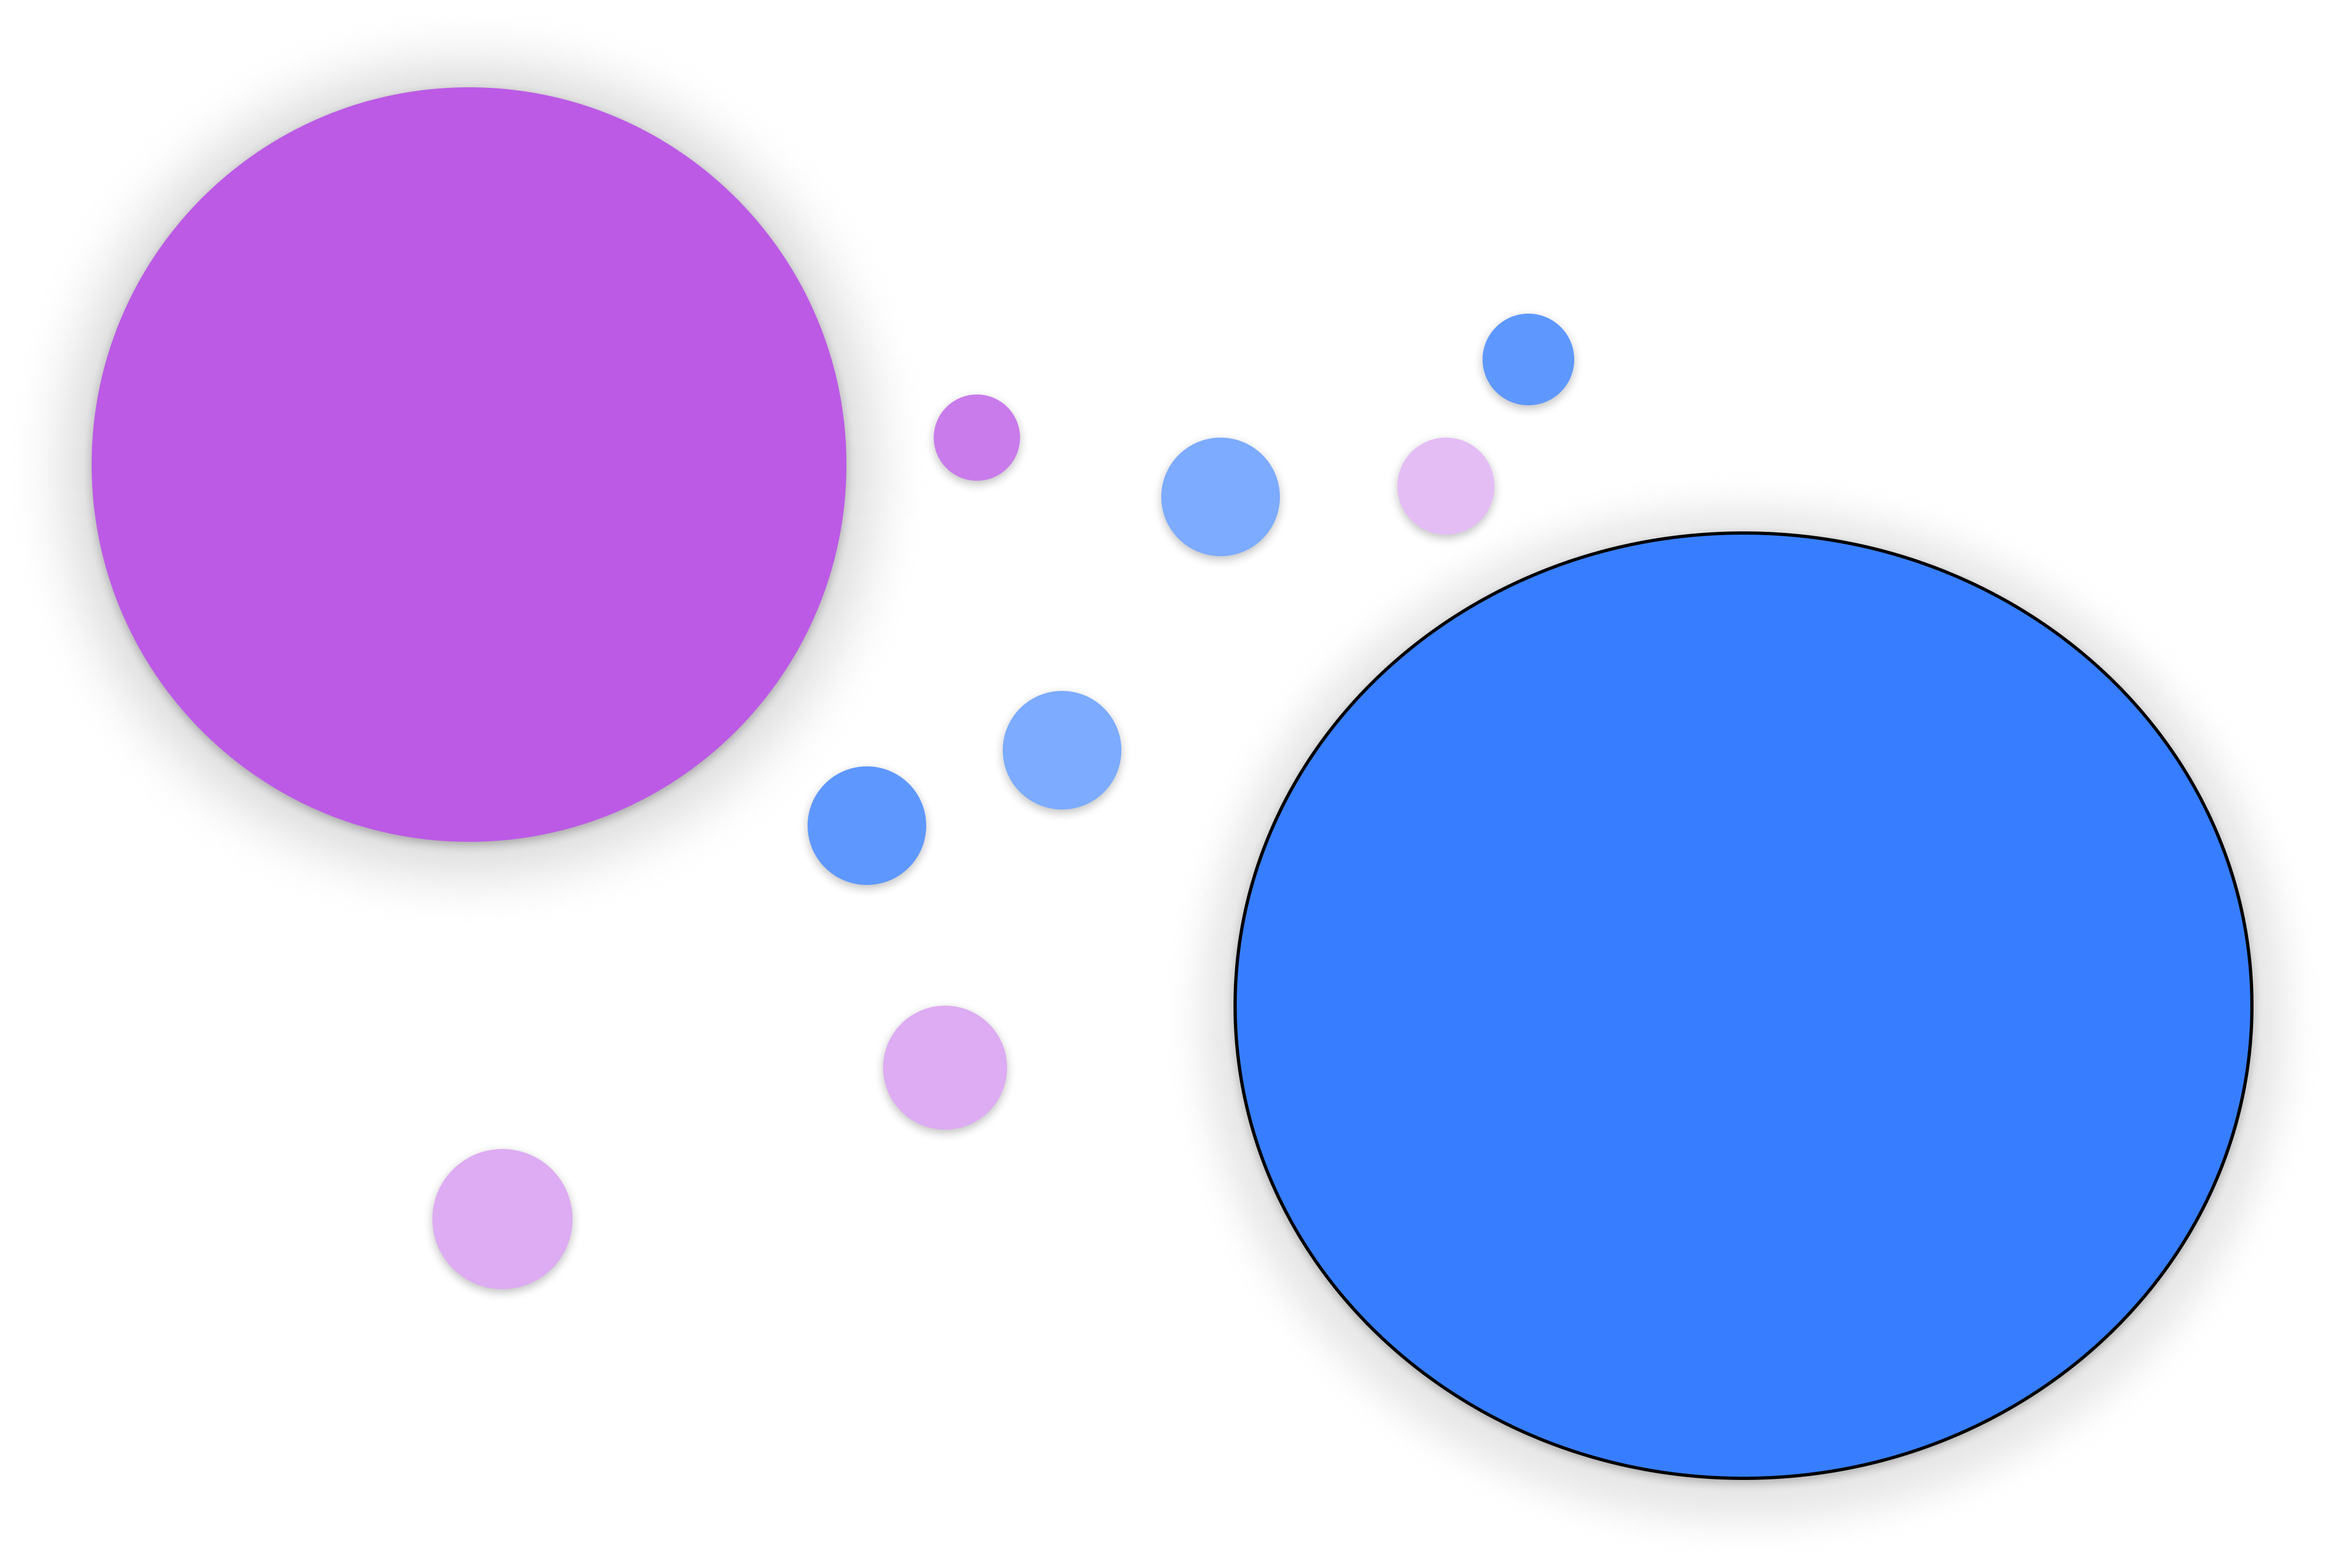
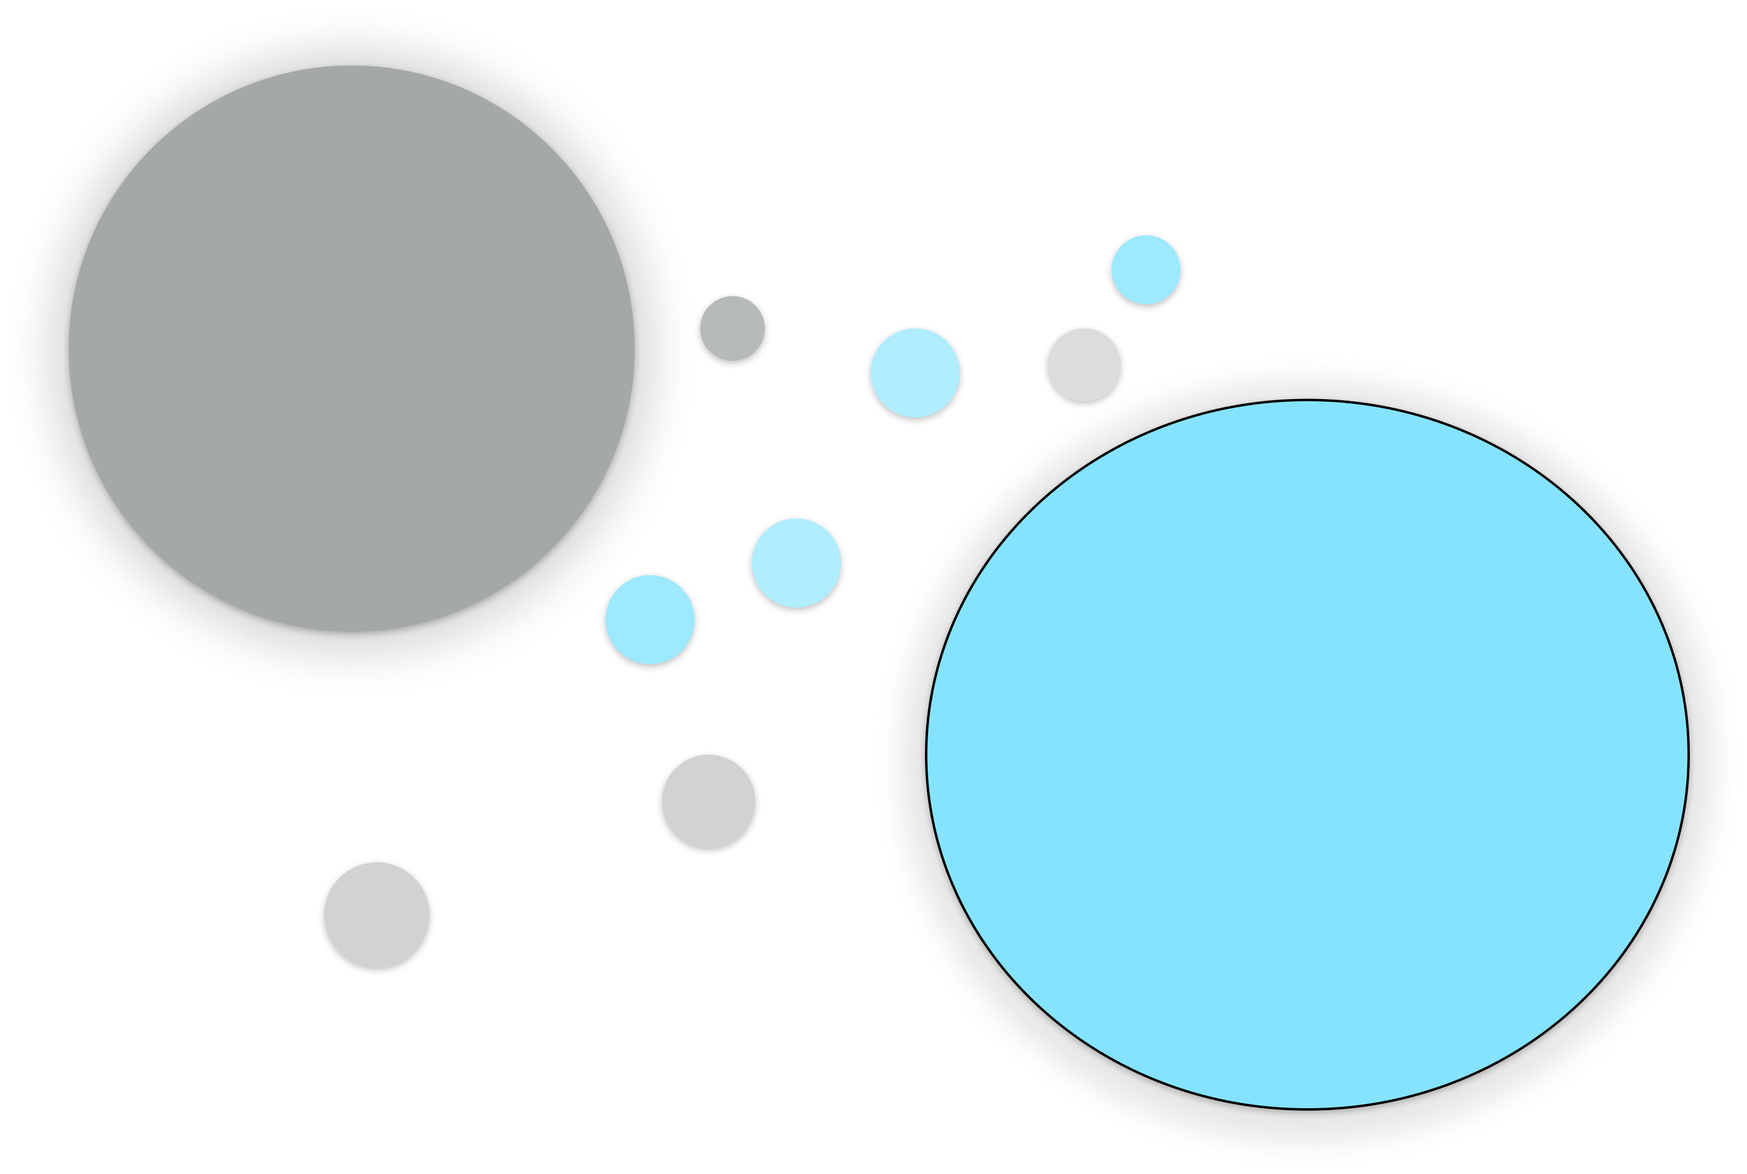
add styling to home page

diff --git a/src/pages/index.tsx b/src/pages/index.tsx
@@ -10,9 +10,9 @@ export default function Home() {
       <Head>
         <title>Finad | Home</title>
       </Head>
-      <div>
+      <div className="flex flex-col w-full justify-start items-center bg-bubbles bg-cover h-screen">
         <Header />
-        <main className="flex flex-row w-full justify-around items-center">
+        <main className="flex flex-row w-full max-w-7xl justify-between items-center">
           <div className="flex flex-col gap-4">
             <h1 className="text-5xl font-semibold font-sans">
               Se organize<br />
@@ -27,10 +27,10 @@ export default function Home() {
             </p>
             <div className="flex flex-row gap-4">
               <NextLink href='/login'>
-                <button className="rounded-xl bg-blue-500 p-3 text-2xl text-white bg-primary">ENTRAR</button>
+                <button className="rounded-xl bg-blue-500 p-3 text-2xl text-white bg-primary font-semibold">ENTRAR</button>
               </NextLink>
               <NextLink href='/register'>
-                <button className="rounded-xl bg-blue-500 p-3 text-2xl text-white bg-secondary">CADASTRAR</button>
+                <button className="rounded-xl bg-blue-500 p-3 text-2xl text-white bg-secondary font-semibold">CADASTRAR</button>
               </NextLink>
             </div>
           </div>

diff --git a/tailwind.config.js b/tailwind.config.js
@@ -28,6 +28,10 @@ module.exports = {
       opensans: ['Open Sans', 'sans-serif'],
       roboto: ['Roboto', 'sans-serif'],
     },
+    backgroundImage: {
+      'bubbles': "url('/bubbles_background.png')",
+    }
+
   },
   plugins: [],
 }
